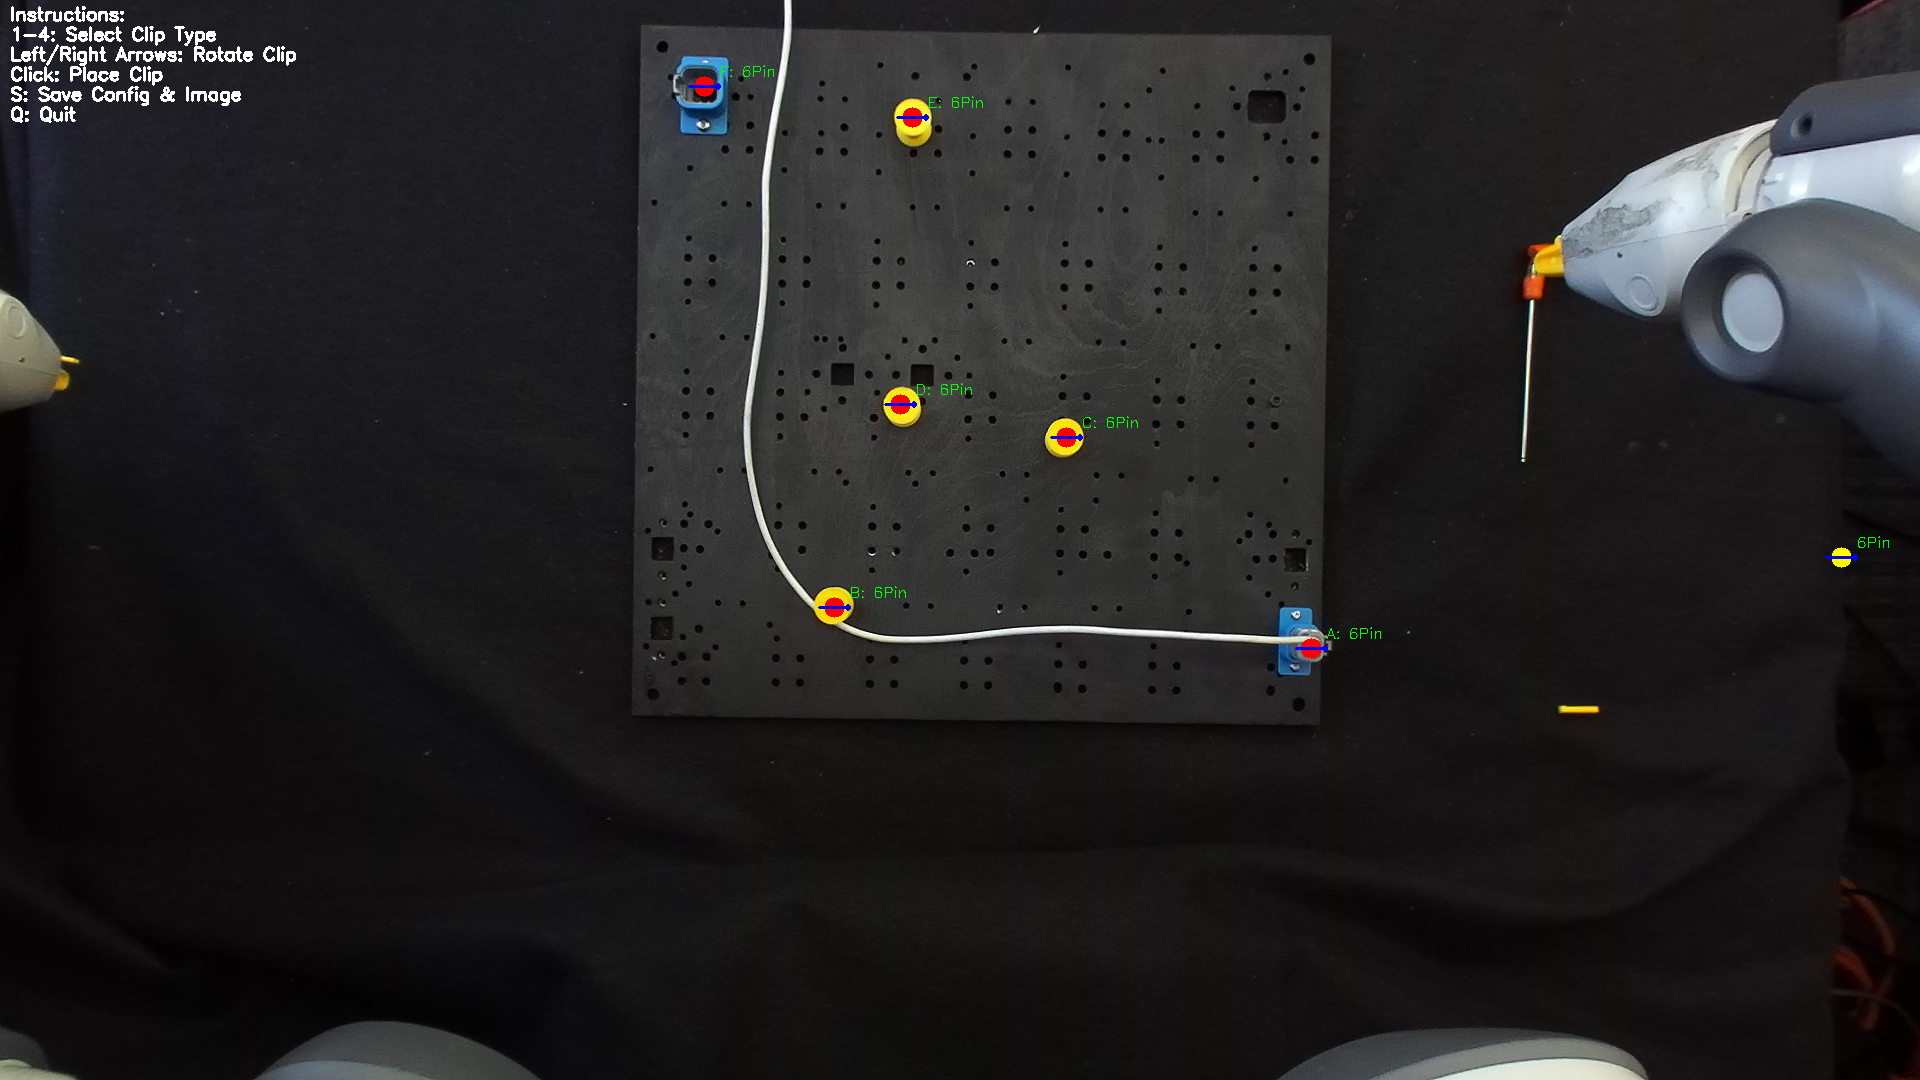
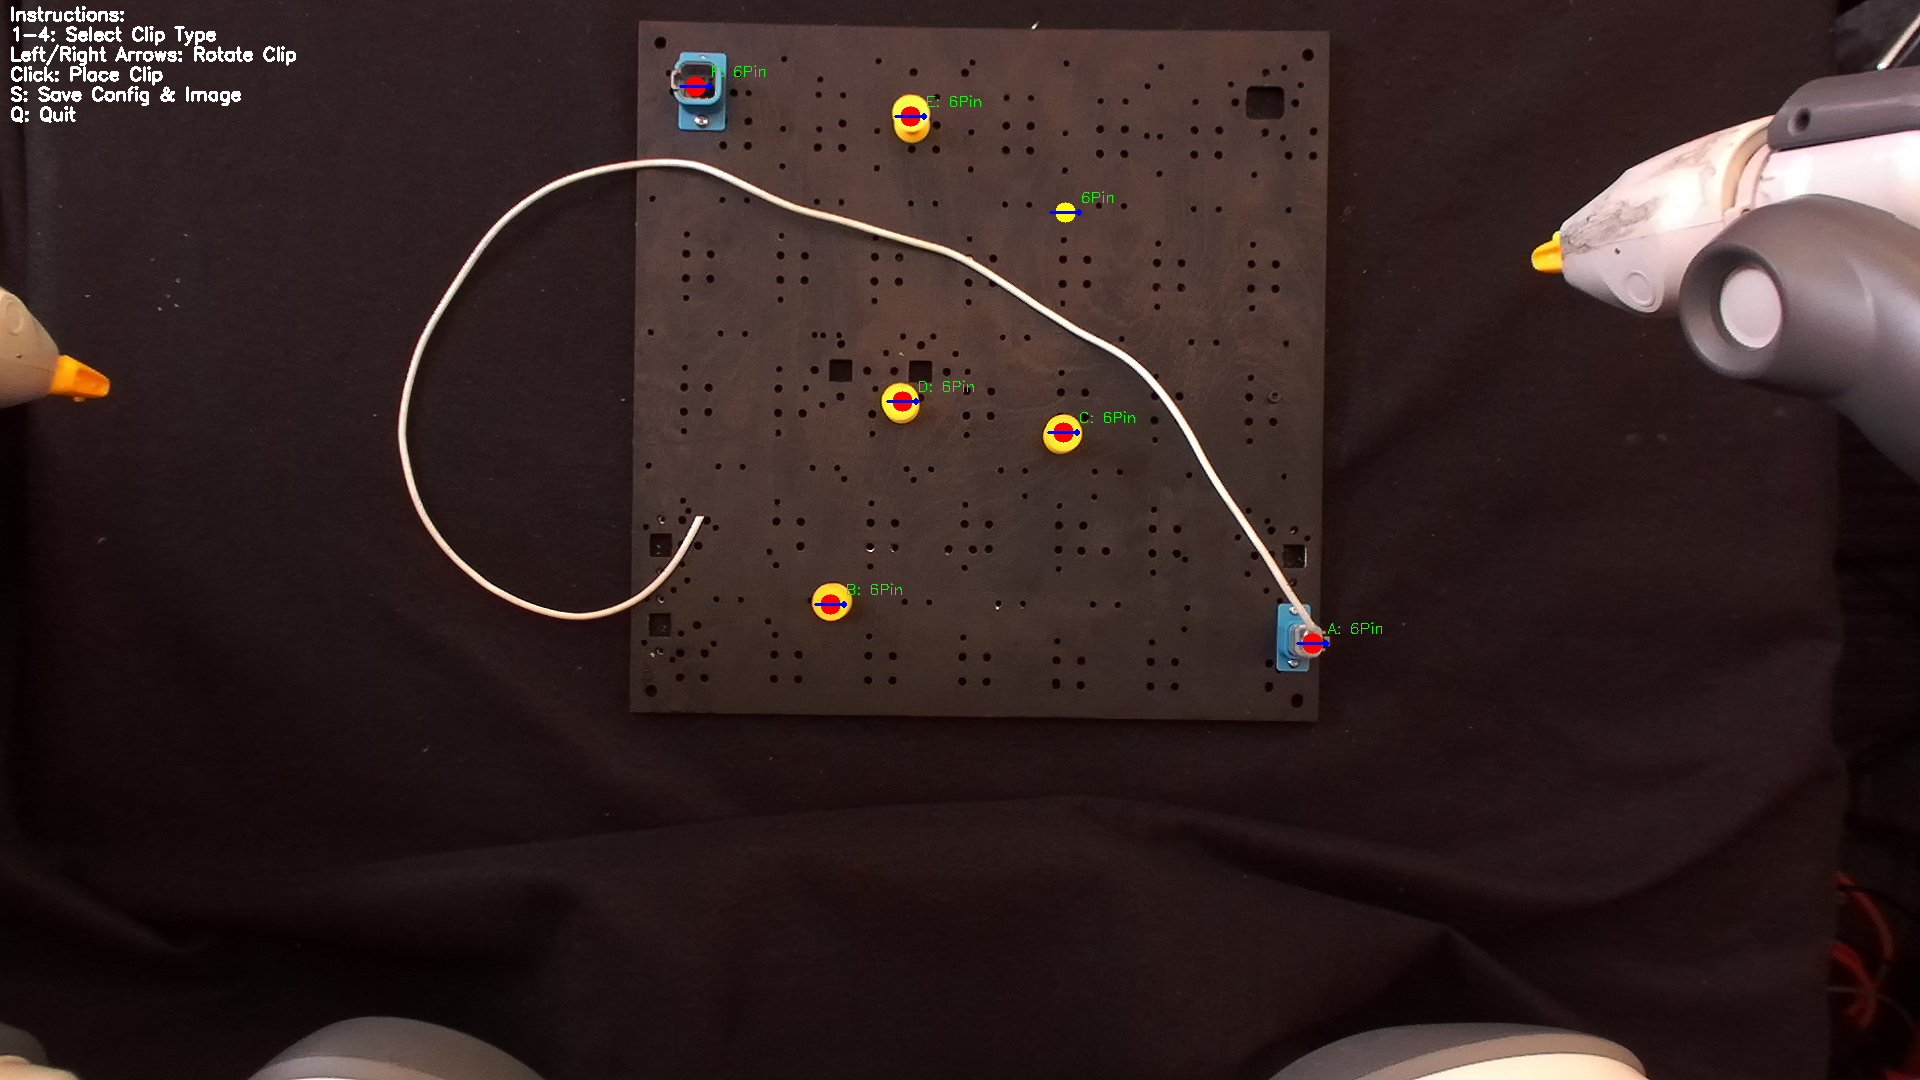
osher checkin

diff --git a/cable_routing/scripts/cable_routing_pipeline.py b/cable_routing/scripts/cable_routing_pipeline.py
@@ -11,10 +11,10 @@ def main(args: ExperimentConfig):
     env = ExperimentEnv(args)
     env.robot.open_grippers()
 
-    routing = ["A", "B", "C", "E", "F"]
+    routing = ["A", "C", "D","F"]
 
     env.route_cable(
-        routing, display=False, dual_arm=True, primary_arm="right", save_viz=False
+        routing, display=True, dual_arm=True, primary_arm="right", save_viz=False
     )
 
     exit()
